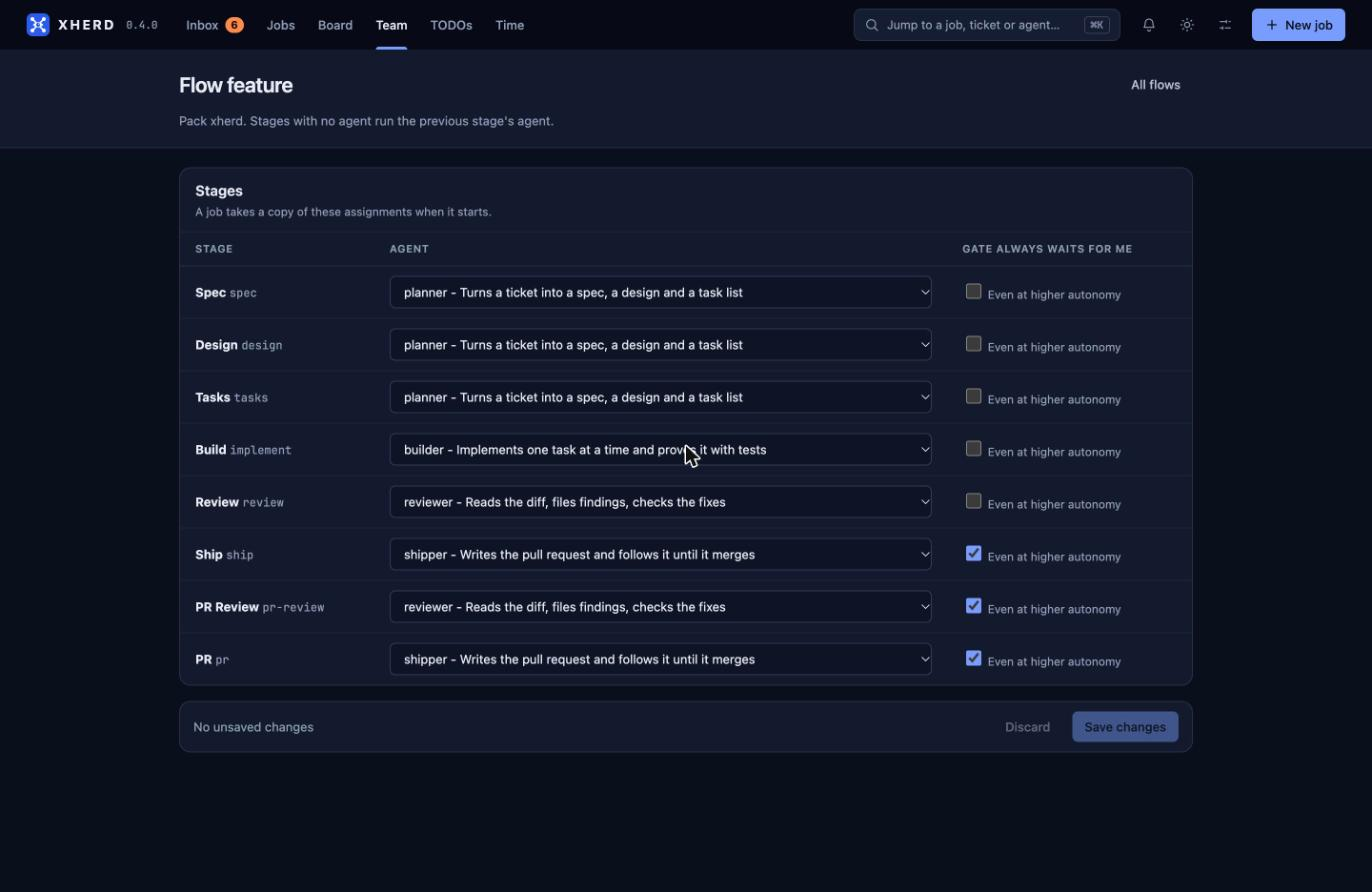
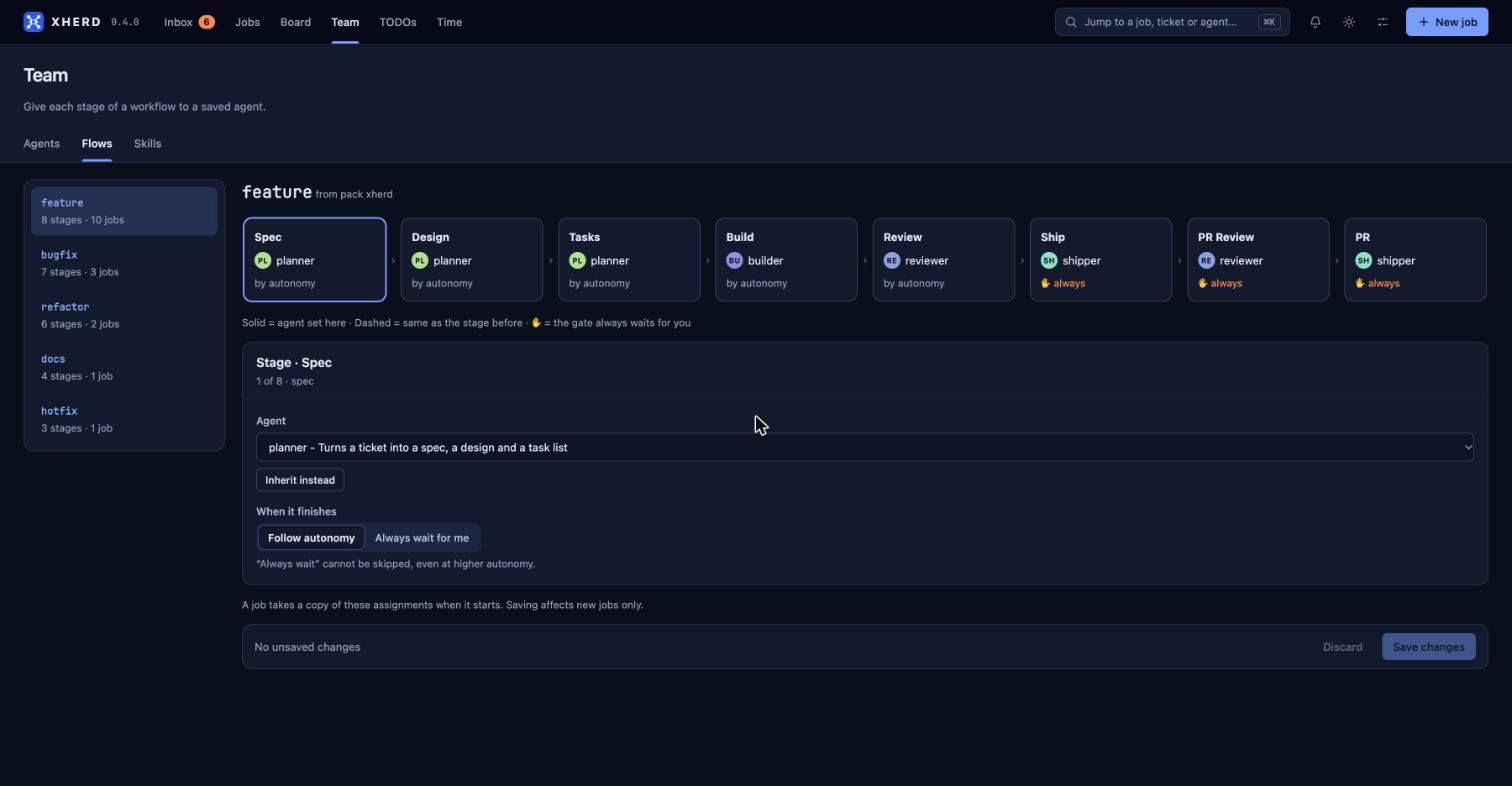
UI: Team Flows as list + stage cards, Skills tab full width with New skill
Claude-Session: https://claude.ai/code/session_01E8xgWr4LEgqiiUMWD6xYYu

diff --git a/ui/src/pages/Flows.svelte b/ui/src/pages/Flows.svelte
@@ -6,6 +6,7 @@
   import PageHead from '../components/PageHead.svelte';
   import TeamTabs from '../components/TeamTabs.svelte';
   import Panel from '../components/Panel.svelte';
+  import Seg from '../components/Seg.svelte';
   import SaveBar from '../components/SaveBar.svelte';
   import Callout from '../components/Callout.svelte';
   import { app } from '../lib/store.svelte';
@@ -14,12 +15,17 @@
   import { showError } from '../lib/errors.svelte';
   import { stageLabel } from '../lib/flow';
   import { assignmentRows, pickable } from '../lib/agents';
+  import { initials, avatarBg } from '../lib/jobs';
   import type { FlowStageView, FlowView, AssignmentRow } from '../lib/types';
 
   const m = $derived(route.path.match(/^\/flows\/([^/]+)\/([^/]+)$/));
-  const pack = $derived(m?.[1] ? decodeURIComponent(m[1]) : '');
-  const flowName = $derived(m?.[2] ? decodeURIComponent(m[2]) : '');
   const list = $derived(app.state?.flows ?? []);
+  // `#/flows` shows the first workflow; the list on the left picks another.
+  const pack = $derived(m?.[1] ? decodeURIComponent(m[1]) : (list[0]?.pack ?? ''));
+  const flowName = $derived(m?.[2] ? decodeURIComponent(m[2]) : (list[0]?.flow ?? ''));
+  const jobsOf = (f: string) => (app.state?.jobs ?? []).filter((j) => j.flow === f).length;
+  let sel = $state(0);
+  $effect(() => { pack; flowName; sel = 0; });
   const agents = $derived((app.state?.agents ?? []));
 
   type Row = { agent: string; human: boolean };
@@ -75,56 +81,68 @@
   });
 </script>
 
-{#if !pack}
-  <PageHead title="Team" sub="Give each stage of a workflow to a saved agent.">
-    {#snippet tabs()}<TeamTabs current="flows" />{/snippet}
-  </PageHead>
-  <div class="stack">
-    <Panel title="Workflows" flush>
-      {#if list.length}
-        <ul class="list">
-          {#each list as f (f.pack + '/' + f.flow)}
-            <li><a class="mono" href={href(`/flows/${f.pack}/${f.flow}`)}>{f.flow}</a>
-              <span class="hint">pack {f.pack} · {f.stages.length} stages: {f.stages.map(stageLabel).join(' → ')}</span></li>
-          {/each}
-        </ul>
-      {:else}<div class="cb"><p class="empty">No workflows.</p></div>{/if}
-    </Panel>
-  </div>
-{:else}
-  <PageHead title="Flow {flowName}" sub="Pack {pack}. Stages with no agent run the previous stage's agent." width="mid">
-    {#snippet actions()}<a class="btn ghost" href={href('/flows')}>All flows</a>{/snippet}
-  </PageHead>
-  <div class="stack mid">
-    {#if error}
-      <Callout tone="bad">{error}</Callout>
-    {:else if !view}
-      <p class="empty">Loading…</p>
-    {:else}
-      <Panel title="Stages" hint="A job takes a copy of these assignments when it starts." flush>
-        <div class="tscroll">
-          <table class="tbl">
-            <thead><tr><th>Stage</th><th>Agent</th><th>Gate always waits for me</th></tr></thead>
-            <tbody>
-              {#each view.stages as s, i (s.id)}
-                <tr>
-                  <td><b>{label(s)}</b> <span class="hint mono">{s.id}</span></td>
-                  <td>
-                    <select aria-label="Agent for {label(s)}" bind:value={rows[i].agent}>
-                      <option value="">{resolved[i] && !rows[i].agent ? `Same as before (${resolved[i]})` : 'No agent'}</option>
-                      {#each names(rows[i].agent) as n (n)}<option value={n}>{withDesc(n)}</option>{/each}
-                    </select>
-                    {#if s.broken && rows[i].agent === (s.agent ?? '') && s.assigned}<div class="hint err">✕ Cannot start jobs: {s.broken}</div>{/if}
-                  </td>
-                  <td><label class="chk"><input type="checkbox" bind:checked={rows[i].human} disabled={!rows[i].agent} />
-                    <span class="hint">{s.class === 'human-only' ? 'Always, for this stage' : 'Even at higher autonomy'}</span></label></td>
-                </tr>
-              {/each}
-            </tbody>
-          </table>
-        </div>
-      </Panel>
-      <SaveBar {dirty} {busy} onsave={save} ondiscard={discard} />
-    {/if}
-  </div>
-{/if}
+<PageHead title="Team" sub="Give each stage of a workflow to a saved agent.">
+  {#snippet tabs()}<TeamTabs current="flows" />{/snippet}
+</PageHead>
+<div class="stack">
+  {#if !list.length}
+    <p class="empty">No workflows.</p>
+  {:else}
+    <div class="flw">
+      <nav class="flw-list" aria-label="Workflows">
+        {#each list as f (f.pack + '/' + f.flow)}
+          {@const n = jobsOf(f.flow)}
+          <a class="flw-item" class:on={f.pack === pack && f.flow === flowName} href={href(`/flows/${f.pack}/${f.flow}`)}>
+            <b class="mono">{f.flow}</b>
+            <span class="hint">{f.stages.length} stages · {n ? `${n} job${n === 1 ? '' : 's'}` : 'not used'}</span>
+          </a>
+        {/each}
+      </nav>
+      <div class="flw-main">
+        {#if error}
+          <Callout tone="bad">{error}</Callout>
+        {:else if !view}
+          <p class="empty">Loading…</p>
+        {:else}
+          {@const st = view.stages[sel] ?? view.stages[0]}
+          {@const i = view.stages.indexOf(st)}
+          <div class="flw-head"><b class="mono big">{flowName}</b> <span class="hint">from pack {pack}</span></div>
+          <div class="flw-track">
+            {#each view.stages as s, k (s.id)}
+              {@const who = resolved[k]}
+              {@const always = rows[k].human || s.class === 'human-only'}
+              <button class="flw-st" class:on={k === i} class:inh={!rows[k].agent} onclick={() => (sel = k)} aria-pressed={k === i}>
+                <b>{label(s)}</b>
+                <span class="flw-ag"><span class="av s" style:background={avatarBg(who)}>{initials(who)}</span>{who || 'no agent'}</span>
+                <span class="hint" class:flw-hand={always}>{always ? '✋ always' : 'by autonomy'}</span>
+              </button>
+              {#if k < view.stages.length - 1}<span class="flw-arr" aria-hidden="true">›</span>{/if}
+            {/each}
+          </div>
+          <p class="hint">Solid = agent set here · Dashed = same as the stage before · ✋ = the gate always waits for you</p>
+          <Panel title="Stage · {label(st)}" hint="{i + 1} of {view.stages.length} · {st.id}">
+            <div class="grp">
+              <label class="f">Agent
+                <span class="row">
+                  <select aria-label="Agent for {label(st)}" bind:value={rows[i].agent}>
+                    <option value="">{resolved[i] && !rows[i].agent ? `Same as before (${resolved[i]})` : 'No agent'}</option>
+                    {#each names(rows[i].agent) as n (n)}<option value={n}>{withDesc(n)}</option>{/each}
+                  </select>
+                  {#if rows[i].agent}<button class="btn sm" onclick={() => (rows[i].agent = '')}>Inherit instead</button>{/if}
+                </span>
+                {#if st.broken && rows[i].agent === (st.agent ?? '') && st.assigned}<span class="hint err">✕ Cannot start jobs: {st.broken}</span>{/if}
+              </label>
+              <div class="f">When it finishes
+                <Seg label="When the stage finishes" value={rows[i].human ? 'wait' : 'auto'} onchange={(v) => (rows[i].human = v === 'wait')}
+                  options={[{ value: 'auto', label: 'Follow autonomy', disabled: !rows[i].agent || st.class === 'human-only' }, { value: 'wait', label: 'Always wait for me', disabled: !rows[i].agent }]} />
+                <span class="hint">{st.class === 'human-only' ? 'This stage always waits for you.' : '“Always wait” cannot be skipped, even at higher autonomy.'}</span>
+              </div>
+            </div>
+          </Panel>
+          <p class="hint">A job takes a copy of these assignments when it starts. Saving affects new jobs only.</p>
+          <SaveBar {dirty} {busy} onsave={save} ondiscard={discard} />
+        {/if}
+      </div>
+    </div>
+  {/if}
+</div>

diff --git a/ui/src/app.css b/ui/src/app.css
@@ -612,3 +612,20 @@ label.f.chk.top { align-items: flex-start; }
 .stc i { font: 700 9.5px var(--sans); font-style: normal; letter-spacing: .03em; color: var(--ink-4); }
 .stc.cur i, .stc.now i { color: var(--ink); }
 .stc.ok i { color: var(--ink-3); }
+
+/* ---- Team → Flows: list of workflows, a card per stage, the picked stage below. */
+.flw { display: grid; grid-template-columns: 240px minmax(0, 1fr); gap: 20px; align-items: start; }
+.flw-list { display: flex; flex-direction: column; gap: 4px; padding: 8px; background: var(--pen); border: 1px solid var(--fence); border-radius: 12px; }
+.flw-item { display: flex; flex-direction: column; gap: 2px; padding: 10px 12px; border-radius: 8px; color: var(--ink); text-decoration: none; }
+.flw-item:hover { background: var(--pen-2); }
+.flw-item.on { background: var(--accent-wash); }
+.flw-main { display: flex; flex-direction: column; gap: 14px; min-width: 0; }
+.flw-head .big { font-size: 20px; }
+.flw-track { display: flex; align-items: stretch; gap: 6px; overflow-x: auto; padding: 2px; }
+.flw-st { flex: 1 0 128px; display: flex; flex-direction: column; gap: 8px; align-items: flex-start; text-align: left; padding: 12px; background: var(--pen); color: var(--ink); border: 1px solid var(--fence-strong); border-radius: 10px; cursor: pointer; font: inherit; }
+.flw-st.inh { border-style: dashed; color: var(--ink-3); }
+.flw-st.on { border-color: var(--accent); box-shadow: 0 0 0 1px var(--accent); border-style: solid; }
+.flw-ag { display: inline-flex; align-items: center; gap: 6px; }
+.flw-hand { color: var(--gate); }
+.flw-arr { align-self: center; color: var(--ink-4); }
+@media (max-width: 760px) { .flw { grid-template-columns: 1fr; } .flw-list { flex-direction: row; overflow-x: auto; } }

diff --git a/ui/src/components/Skills.svelte b/ui/src/components/Skills.svelte
@@ -37,7 +37,7 @@
   }
   $effect(() => { load(); });
 
-  function start() {
+  export function start() {
     adding = true; name = ''; text = template(''); files = null; skipped = 0; replace = false; problem = '';
   }
   async function pickFolder(e: Event) {
@@ -108,11 +108,10 @@
         {/each}
       </ul>
     {/if}
-    {#snippet foot()}<button class="btn primary" onclick={start}>Add a skill</button>{/snippet}
   </Panel>
 
   {#if adding}
-    <Panel title="Add a skill">
+    <Panel title="New skill">
       <div class="grp">
         <label class="f">From a folder
           <input type="file" webkitdirectory onchange={pickFolder} />
@@ -131,7 +130,7 @@
       </div>
       {#snippet foot()}
         <button class="btn ghost" onclick={() => (adding = false)}>Cancel</button>
-        <button class="btn primary" disabled={busy || !nameOk || (!!files && !!problem)} onclick={add}>{busy ? 'Adding…' : 'Add skill'}</button>
+        <button class="btn primary" disabled={busy || !nameOk || (!!files && !!problem)} onclick={add}>{busy ? 'Creating…' : 'Create skill'}</button>
       {/snippet}
     </Panel>
   {/if}

diff --git a/ui/src/pages/SkillsPage.svelte b/ui/src/pages/SkillsPage.svelte
@@ -3,9 +3,14 @@
   import PageHead from '../components/PageHead.svelte';
   import TeamTabs from '../components/TeamTabs.svelte';
   import Skills from '../components/Skills.svelte';
+
+  let skills: Skills;
 </script>
 
-<PageHead width="mid" title="Team" sub="The skills agents can be given: a folder with a SKILL.md, copied into a job's worktree when it starts.">
+<PageHead title="Team" sub="The skills agents can be given: a folder with a SKILL.md, copied into a job's worktree when it starts.">
+  {#snippet actions()}
+    <button class="btn primary" onclick={() => skills.start()}>New skill</button>
+  {/snippet}
   {#snippet tabs()}<TeamTabs current="skills" />{/snippet}
 </PageHead>
-<div class="stack mid"><Skills /></div>
+<div class="stack"><Skills bind:this={skills} /></div>

diff --git a/doc/user/guide.md b/doc/user/guide.md
@@ -170,7 +170,7 @@ During review, a job may propose an update of the repository's `AGENTS.md` (what
 
 ## Agents on workflow stages
 
-One job can have an architect for the spec and design, a coder for the implementation and a reviewer for the review. **Flows** (`#/flows`, or `xherd flow`) lists every workflow with its stages in order; each stage has an agent picker and a **human** switch (its gate always waits for you, whatever the autonomy). A stage with no agent uses the one the job was started with, else the agent of the stage before; with none at all the job runs as one without agents. Assignments apply to jobs created afterwards.
+One job can have an architect for the spec and design, a coder for the implementation and a reviewer for the review. **Flows** (`#/flows`, or `xherd flow`) lists every workflow on the left; the picked one shows a card per stage in order (solid = agent set there, dashed = same as the stage before, ✋ = the gate always waits for you), and the selected stage has an agent picker and a **When it finishes** switch (*Always wait for me*: the gate waits whatever the autonomy). A stage with no agent uses the one the job was started with, else the agent of the stage before; with none at all the job runs as one without agents. Assignments apply to jobs created afterwards.
 
 - A job keeps a snapshot of every agent its stages use, so later edits never change it. At each stage start the job takes that stage's agent: instructions, memory, skills, tool permissions, model and autonomy (a repo profile's ceilings still apply), always in a fresh session. The stepper names the agent of each stage and the header names the current one, with its runtime, model, autonomy and tools as facts; **Override for this job** (header) changes them for this job only and pins it to the current agent, so it stops switching at each stage.
 - All agents of one job must use the same runtime (`mixed_runtime` otherwise) until a job can change runtime between steps. An agent may name a **fallback runtime**, used once at creation when its runtime is unusable; the job page says it fell back.
